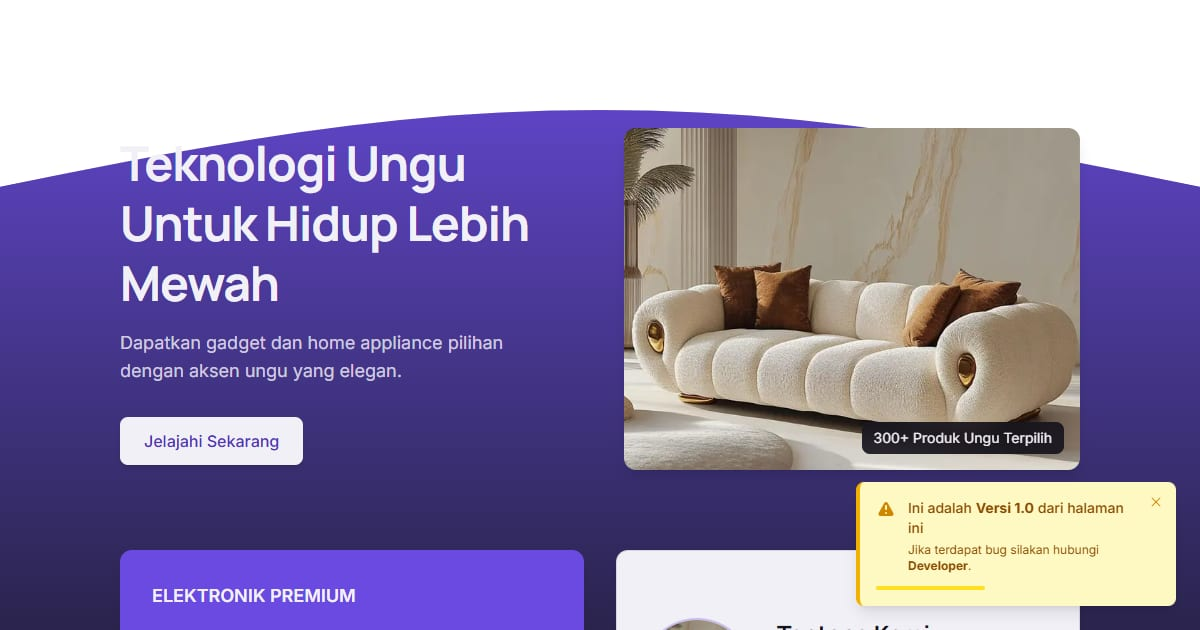
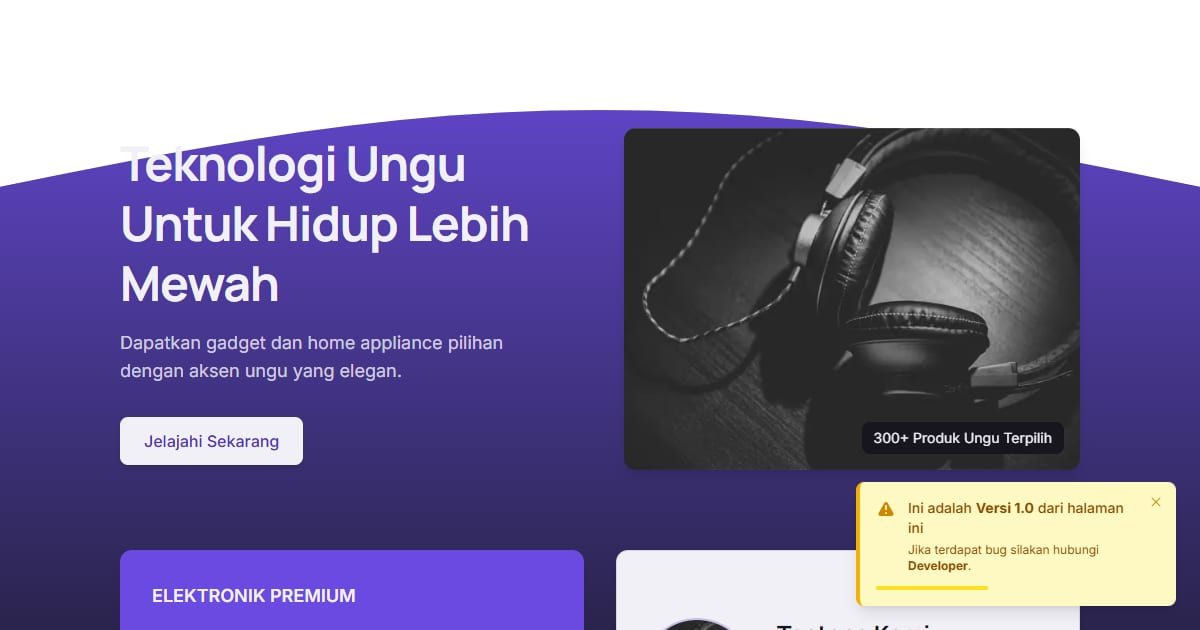
Ganti foto sofa di hero dengan foto headphone CC0
Toko elektronik ini memakai foto sofa (sisa kloning woodora) di tiga tempat
pada hero. Diganti "Headphones Audio" karya Corey Blaz via StockSnap (CC0),
kreditnya dicatat di README. sofa.jpg tak lagi dirujuk; og.jpg diambil ulang.

Changed region(s): [[0.4933, 0.181, 0.925, 0.754], [0.555, 0.9651, 0.6167, 1.0]]

diff --git a/app/components/Hero.jsx b/app/components/Hero.jsx
@@ -27,8 +27,8 @@ export default function Hero() {
         >
           <div className="relative w-full aspect-video rounded-b-2xl overflow-hidden">
             <Image
-              src="/images/sofa.jpg"
-              alt="Promo Elektronik Ungu"
+              src="/images/headphones.jpg"
+              alt="Headphone premium berwarna gelap"
               width={600}
               height={400}
               className="object-cover"
@@ -94,8 +94,8 @@ export default function Hero() {
             className="relative w-full aspect-[4/3]"
           >
             <Image
-              src="/images/sofa.jpg"
-              alt="Showcase Elektronik Ungu"
+              src="/images/headphones.jpg"
+              alt="Headphone premium berwarna gelap di atas meja"
               fill
               className="object-cover rounded-xl shadow-lg"
               priority
@@ -140,8 +140,8 @@ export default function Hero() {
           >
             <div className="relative w-20 h-20 lg:w-28 lg:h-28 overflow-hidden rounded-full border-2 border-violet-spec/30 shrink-0">
               <Image
-                src="/images/sofa.jpg" // More appropriate image
-                alt="Tim Elektronik Ungu"
+                src="/images/headphones.jpg"
+                alt="Headphone premium LuxeElectro"
                 width={112}
                 height={112}
                 className="object-cover w-full h-full"

diff --git a/README.md b/README.md
@@ -25,6 +25,10 @@ Bahasa rupa **Panel Spesifikasi**: gadget dan peralatan rumah premium ditampilka
 - Font: Manrope, Inter (next/font)
 - SEO: metadata per halaman, Open Graph, JSON-LD, sitemap.xml, dan robots.txt
 
+## Kredit foto
+
+Foto headphone di hero: ["Headphones Audio"](https://stocksnap.io/photo/headphones-audio-1Y69ONYCCZ) oleh Corey Blaz via StockSnap, lisensi CC0 (domain publik).
+
 ## Menjalankan secara lokal
 
 ```bash
